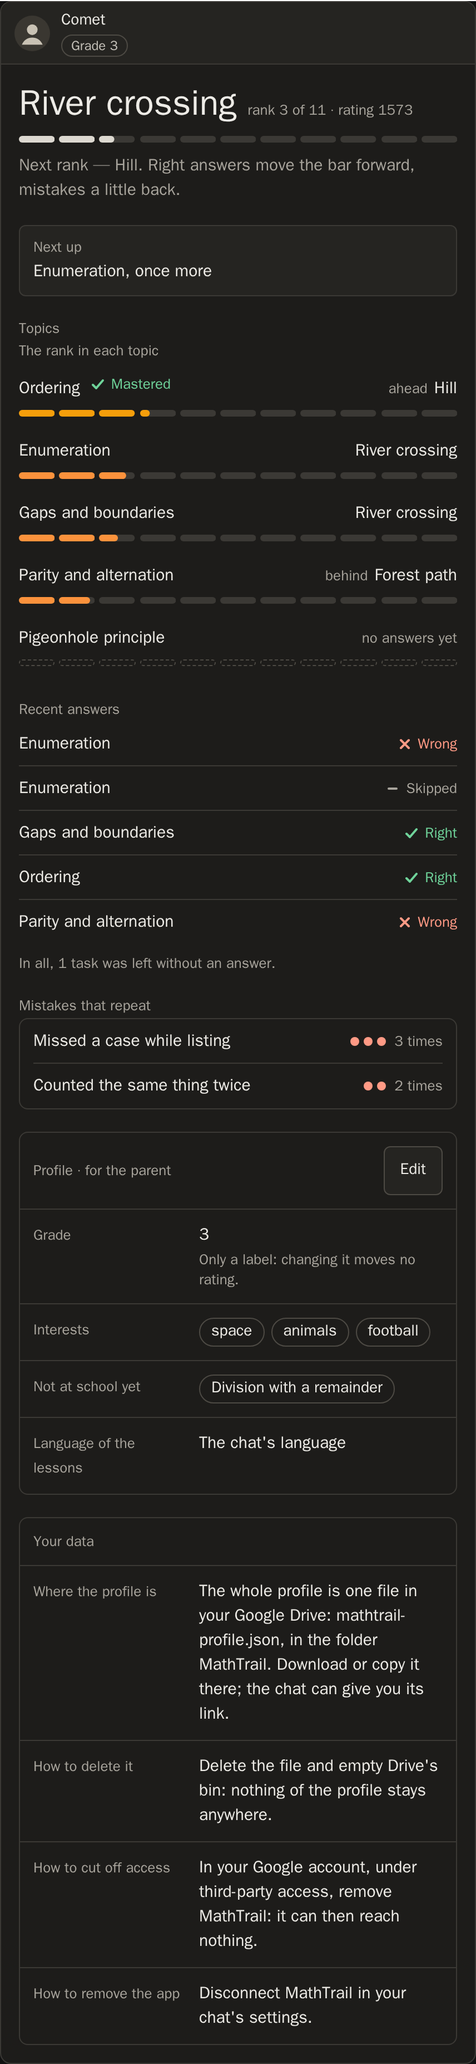
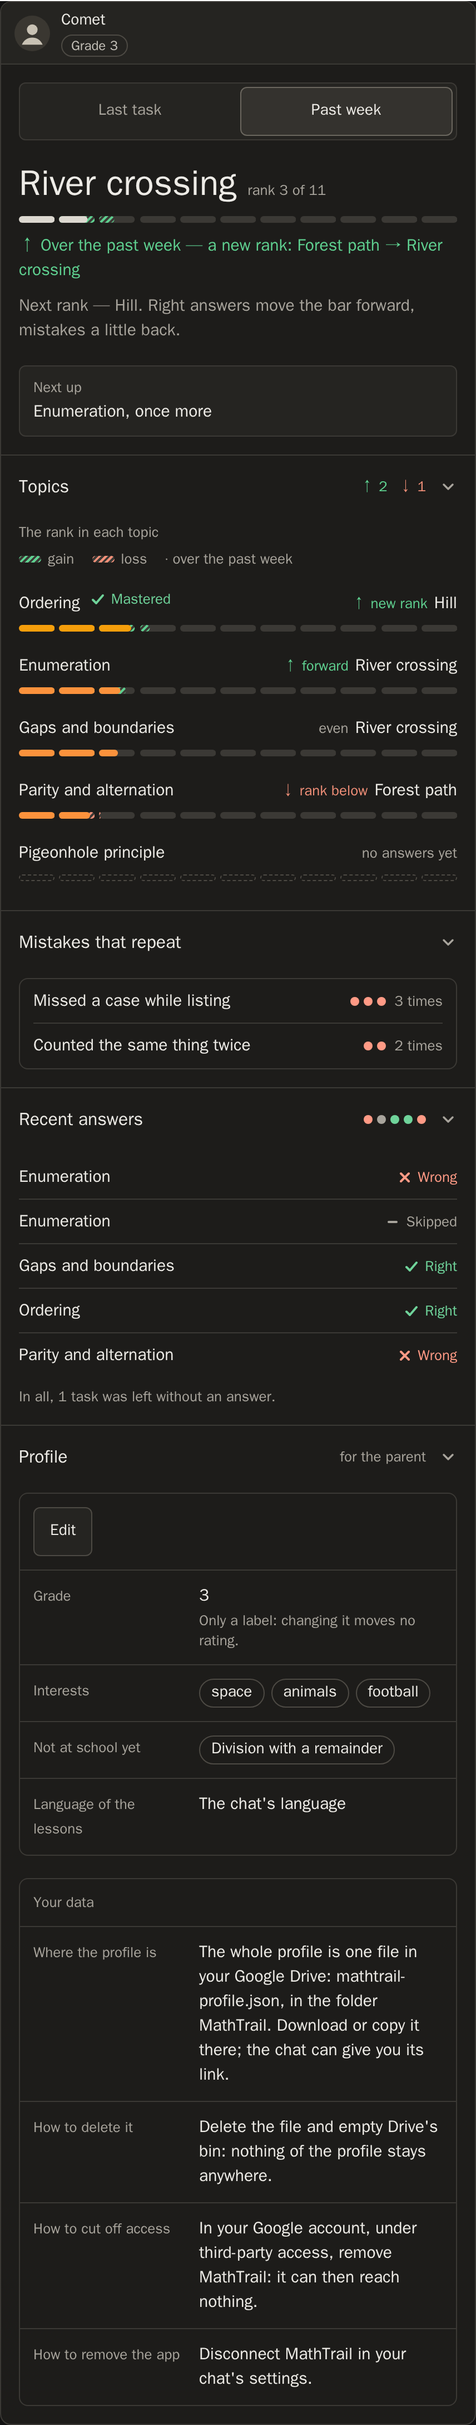
1

diff --git a/web/src/widget/ProgressScreen.test.tsx b/web/src/widget/ProgressScreen.test.tsx
@@ -1,4 +1,8 @@
+import { render } from "preact";
+import { act } from "preact/test-utils";
 import { afterEach, describe, expect, test, vi } from "vitest";
+import { ProgressScreen } from "./ProgressScreen";
+import { readScreen } from "./payload";
 import { type Drawn, drawCard, foldIn, press, takeDown } from "./testing/card";
 import {
 	atTheTop,
@@ -775,5 +779,47 @@ describe("the moves", () => {
 			expect(root.querySelector(".mt-segment-stripes")).toBeNull();
 			takeDown(root);
 		}
+	});
+});
+
+describe("a progress screen nobody outlives", () => {
+	// stillHost is a host that answers nothing: a screen drawn on its own,
+	// over no card, has nobody to call.
+	const stillHost = {
+		callTool: () => Promise.reject(new Error("no host")),
+		sendMessage: () => Promise.reject(new Error("no host")),
+		tellModel: () => Promise.reject(new Error("no host")),
+	};
+
+	test("keeps the while chosen on its switch itself", () => {
+		const root = document.createElement("div");
+		document.body.append(root);
+		const report = readScreen(moving);
+		if (report?.screen !== "progress") {
+			throw new Error(`the progress reads as ${report?.screen}`);
+		}
+		act(() =>
+			render(
+				<ProgressScreen
+					report={report.report}
+					wide={false}
+					host={stillHost}
+					folds={{ open: new Set(), toggle: () => {} }}
+				/>,
+				root,
+			),
+		);
+
+		chosen(root, "last_task");
+
+		expect(periods(root)).toEqual([
+			["last_task", true],
+			["week", false],
+		]);
+		expect(text(root, ".mt-rank-move")).toBe(
+			"↓The last task moved the bar back a little",
+		);
+		act(() => render(null, root));
+		root.remove();
 	});
 });

diff --git a/web/src/widget/ProgressScreen.tsx b/web/src/widget/ProgressScreen.tsx
@@ -82,8 +82,8 @@ export function ProgressCard({
  * over — since the last task, or over the week — as period tells, kept by
  * whoever outlives the screen too: how the rank moved, in stripes on its
  * course and in a line under it, and each topic by its own answers, with how
- * many moved each way by the title of the topics. A card drawn once, which no
- * one presses, needs no period, and shows the while chosen for it first. A
+ * many moved each way by the title of the topics. Where nobody outlives the
+ * screen — a card drawn once — it keeps the while chosen itself. A
  * change the parent saves on its form shows at once, the name and the grade at
  * the top among it, and is handed to onSaved.
  */
@@ -103,11 +103,13 @@ export function ProgressScreen({
 	onSaved?: (details: Details) => void;
 }) {
 	const words = useWords();
+	const own = usePeriod();
+	const choice = period ?? own;
 	const { recommendation } = report;
 	const moves =
 		report.trial === null ? (report.overall?.change ?? undefined) : undefined;
 	const shown =
-		moves === undefined ? undefined : periodShown(period?.chosen, moves);
+		moves === undefined ? undefined : periodShown(choice.chosen, moves);
 	const rows = topicRows(words, report, shown);
 	const [profile, setProfile] = useState(report.profile);
 	const skipped =
@@ -141,7 +143,7 @@ export function ProgressScreen({
 								{ value: "week", label: words.text("progress.period_week") },
 							]}
 							value={shown}
-							onChange={(chosen) => period?.choose(chosen)}
+							onChange={choice.choose}
 						/>
 					)}
 					<Standing report={report} moves={moves} shown={shown} />

diff --git a/web/src/design/progress.tsx b/web/src/design/progress.tsx
@@ -132,10 +132,10 @@ const leastShown = 0.14;
 // drawnStep is how the step at place step is drawn: how much of it is filled,
 // and how far the stripes of a move reach under the fill, from where the
 // course stood at was to where it stands — none when it did not move. A move
-// too small to be seen takes the least part of a step that is, at the edge of
-// the step the course is under way in, so that the drawing never says less
-// than the words beside it: a gain ends at the edge, and a step back starts
-// there.
+// too small to be seen, over all the steps it crosses, takes the least part of
+// a step that is, at the edge of the step the course is under way in, so that
+// the drawing never says less than the words beside it: a gain ends at the
+// edge, and a step back starts there.
 function drawnStep(
 	step: number,
 	filled: number,
@@ -151,7 +151,7 @@ function drawnStep(
 	const within = (at: number) => bounded(at - (step - 1));
 	let fill = within(Math.min(now, then));
 	let stripes = within(Math.max(now, then));
-	if (step === filled + 1) {
+	if (step === filled + 1 && Math.abs(now - then) < leastShown) {
 		const edge = within(now);
 		if (way === "gain") {
 			stripes = Math.max(edge, leastShown);

diff --git a/web/src/design/progress.test.tsx b/web/src/design/progress.test.tsx
@@ -123,6 +123,18 @@ describe("a course that moved", () => {
 		},
 	);
 
+	test("draws a move seen on the steps it crossed as it is, and nothing past its edge", () => {
+		draw(
+			<Segments of={3} filled={1} part={0} was={{ filled: 0, part: 0.8 }} />,
+		);
+
+		expect(striped()).toEqual([
+			["80%", "100%", "mt-stripes mt-stripes-gain"],
+			["0%", null, null],
+			["0%", null, null],
+		]);
+	});
+
 	test("shows a rank just reached, at the start of its step", () => {
 		draw(
 			<Segments of={3} filled={1} part={0} was={{ filled: 0, part: 0.99 }} />,

diff --git a/internal/report/audit_internal_test.go b/internal/report/audit_internal_test.go
@@ -27,7 +27,11 @@ func TestALineIsHeldToTheRulesOfTheLog(t *testing.T) {
 				`"request_id":"r1","logging.googleapis.com/trace":"t","user":"u1","instance":"i-1","duration_ms":12}`,
 			nil},
 		{"an event nobody decided on", `{"message":"made_up","anything":"at all"}`,
-			[]breach{{event: "made_up", rule: ruleUnknownEvent}}},
+			[]breach{{event: unknownEvent, rule: ruleUnknownEvent}}},
+		{"an event whose words name a child", `{"message":"hello Masha from 10.1.2.3"}`,
+			[]breach{{event: unknownEvent, rule: ruleUnknownEvent}}},
+		{"a field named otherwise than the service names one", `{"message":"tool_call","Masha":"1"}`,
+			[]breach{{event: "tool_call", field: withheld, rule: ruleUndecided}}},
 		{"a field its event is not decided to carry", `{"message":"tool_call","pseudonym":"Comet"}`,
 			[]breach{{event: "tool_call", field: "pseudonym", rule: ruleUndecided}}},
 		{"an email address in a value", `{"message":"cimd_fetch","host":"alice@school.example"}`,
@@ -49,7 +53,7 @@ func TestALineIsHeldToTheRulesOfTheLog(t *testing.T) {
 				{event: "limit_hit", field: withheld, rule: ruleUndecided},
 			}},
 		{"an event named like one", `{"message":"erin@home.example"}`,
-			[]breach{{event: withheld, field: "message", rule: ruleEmail}, {event: withheld, rule: ruleUnknownEvent}}},
+			[]breach{{event: unknownEvent, field: "message", rule: ruleEmail}, {event: unknownEvent, rule: ruleUnknownEvent}}},
 	} {
 		t.Run(test.name, func(t *testing.T) {
 			t.Parallel()
@@ -86,22 +90,25 @@ func TestTheFieldsOfEveryLineAreDecidedForEveryEvent(t *testing.T) {
 	}
 }
 
-// No breach the report writes repeats an email address, whatever a line held
-// and wherever: a name shaped like one is withheld.
-func TestABreachNeverRepeatsAnEmailAddress(t *testing.T) {
+// No breach the report writes repeats what a line held, whatever it held and
+// wherever: its event is one the service is decided to write or says it is
+// not, and its field is named as the service names a field or withheld.
+func TestABreachNeverRepeatsWhatALineHeld(t *testing.T) {
 	t.Parallel()
 
-	words := gen.OneConstOf("tool_call", "limit_hit", "made_up", "user", "query", "pseudonym",
-		"alice@school.example", "bob%40home.example", "carol@work.example", "plain")
+	words := gen.OneConstOf("tool_call", "limit_hit", "made_up", "user", "query", "pseudonym", "hello Masha",
+		"Masha", "10.1.2.3", "alice@school.example", "bob%40home.example", "carol@work.example", "plain")
 	properties := gopter.NewProperties(nil)
-	properties.Property("every event and field of a breach is free of an email address", prop.ForAll(
+	properties.Property("every event and field of a breach is the service's own or stands in for one", prop.ForAll(
 		func(event string, keys, values []string) bool {
 			fields := map[string]any{"message": event}
 			for i, key := range keys {
 				fields[key] = values[i%len(values)]
 			}
 			for _, broken := range audit(fields) {
-				if EmailIn(broken.event) != "" || EmailIn(broken.field) != "" {
+				if (!Known(broken.event) && broken.event != unknownEvent) ||
+					(broken.field != "" && broken.field != withheld && !fieldName.MatchString(broken.field)) ||
+					EmailIn(broken.event) != "" || EmailIn(broken.field) != "" {
 					return false
 				}
 			}

diff --git a/internal/report/audit.go b/internal/report/audit.go
@@ -2,6 +2,7 @@ package report
 
 import (
 	"cmp"
+	"regexp"
 	"slices"
 )
 
@@ -12,9 +13,19 @@ const (
 	ruleEmail        = "text shaped like an email address"
 )
 
-// withheld stands in a breach for an event or a field whose own name is
-// shaped like an email address: the report repeats no such text.
-const withheld = "(withheld)"
+// What a breach says in place of a name it must not repeat: the words of an
+// event nobody decided on, which may be anything at all, a child's name or an
+// address among them, and a field named otherwise than a field of the service
+// is.
+const (
+	unknownEvent = "(an event not in the table)"
+	withheld     = "(withheld)"
+)
+
+// fieldName is how the service names a field, and a log collector its own
+// keys: a lowercase letter first, then letters, digits, dots, slashes, dashes
+// and underscores.
+var fieldName = regexp.MustCompile(`^[a-z][a-zA-Z0-9_./-]{0,63}$`)
 
 // breach is one way a line breaks the rules of the log: the event, the field
 // and the rule. It names what the line held never.
@@ -26,9 +37,10 @@ type breach struct{ event, field, rule string }
 // any of its values or names.
 func audit(fields map[string]any) []breach {
 	event, _ := fields["message"].(string)
-	label := named(event)
+	label := event
 	var found []breach
 	if !Known(event) {
+		label = unknownEvent
 		found = append(found, breach{event: label, rule: ruleUnknownEvent})
 	}
 	for field, value := range fields {
@@ -48,10 +60,10 @@ func compareBreaches(a, b breach) int {
 	return cmp.Or(cmp.Compare(a.event, b.event), cmp.Compare(a.field, b.field), cmp.Compare(a.rule, b.rule))
 }
 
-// named is a name as a breach gives it: as it is, unless it is itself shaped
-// like an email address.
+// named is a field's name as a breach gives it: as it is when it is named the
+// way the service names a field, and withheld otherwise.
 func named(name string) string {
-	if EmailIn(name) != "" {
+	if !fieldName.MatchString(name) {
 		return withheld
 	}
 	return name

diff --git a/internal/report/write.go b/internal/report/write.go
@@ -44,7 +44,8 @@ func write(out io.Writer, c *counts) error {
 		{"The busiest minute", c.busyAbout(), c.busyTable()},
 		{"The rules of the log", "Every line of the service's is held to an event the service is decided to " +
 			"write, to the fields decided for that event, and to carrying nothing shaped like an email address. A " +
-			"line that breaks one is named by its event and its field, never by what it held.", c.breachesTable()},
+			"line that breaks one is named by its event and its field, never by what it held: an event the table " +
+			"does not name is not named, since its words may be anything.", c.breachesTable()},
 	} {
 		fmt.Fprintf(&report, "\n## %s\n\n%s\n\n", section.title, section.about)
 		section.table.writeTo(&report)
@@ -299,14 +300,18 @@ func (t *table) writeTo(b *strings.Builder) {
 }
 
 // writeRow writes one row of a table. A cell with nothing in it says so, and
-// a bar in a cell stays in the cell.
+// a bar or a line break in a cell stays in the cell.
 func writeRow(b *strings.Builder, cells []string) {
 	written := make([]string, len(cells))
 	for i, cell := range cells {
-		written[i] = cmp.Or(strings.ReplaceAll(cell, "|", `\|`), "(none)")
+		written[i] = cmp.Or(inACell.Replace(cell), "(none)")
 	}
 	b.WriteString("| " + strings.Join(written, " | ") + " |\n")
 }
+
+// inACell keeps a text inside the cell of a table: a bar is written as a bar,
+// not a border, and a line break as a space, not the end of the row.
+var inACell = strings.NewReplacer("|", `\|`, "\r\n", " ", "\n", " ", "\r", " ")
 
 // number is a whole number as the report writes it.
 func number[T int | int64](n T) string { return strconv.FormatInt(int64(n), 10) }

diff --git a/internal/report/report_internal_test.go b/internal/report/report_internal_test.go
@@ -353,3 +353,16 @@ func TestLinesWithNoTimeAreSaidToHaveNone(t *testing.T) {
 		t.Errorf("the report begins %q, want it to say the lines have no time", out.String()[:min(out.Len(), 120)])
 	}
 }
+
+// A text in a cell of a table stays in its cell and its row: a bar is written
+// as a bar and a line break as a space, so neither starts a cell or a row of
+// its own, and a cell with nothing in it says so.
+func TestATextStaysInItsCell(t *testing.T) {
+	t.Parallel()
+
+	var b strings.Builder
+	writeRow(&b, []string{"a|b", "first\nsecond\r\nthird\rfourth", ""})
+	if got, want := b.String(), "| a\\|b | first second third fourth | (none) |\n"; got != want {
+		t.Errorf("writeRow() = %q, want %q", got, want)
+	}
+}

diff --git a/docs/decisions.md b/docs/decisions.md
@@ -500,7 +500,7 @@ Measured on the development machine in a container of one vCPU and 1 GiB (`docs/
 
 **R141. The log is audited by a whole lesson through the service as it is built, and added up by a package that reads the service's own lines.** *(Since T64.2 the table of fields is the report's, names every event, and holds a deployment's log as well as the lesson; the test keeps the list of the events a lesson leaves — R169.)* The audit is a test rather than a document. `internal/app` runs one family's whole way through the container `NewContainer` builds: the host registering, the parent through the consent screen and a stand-in for Google, the child's profile in a stand-in for Drive, a race asked for, asked for again while its request is open, refused once and accepted, answered wrongly and told again, the progress, the day's limit, a renewal and the end of the access — with a stranger's token and a client on a private network on the way. Every line it leaves is held to two rules. It carries nothing sent or issued on the way — the pseudonym, the interests and the notes, the words of the task and of its program, a letter standing as a value of its own, the name the host gives itself, every token, code, cookie, state and verifier, Google's subject and the service's secrets, the id of the file in Drive, the addresses the requests came from — and no email address at all, each looked for in every value as it is written and as it reads with its percent-encoding undone. And it is a line of an event the lesson is known to leave, carrying only the fields decided for that event: a table in the test, SPEC 12.2 made executable, in which every event has to appear in the lesson, so that the table lists nothing the lesson does not reach. The lines together, written out as JSON, are then held to adding up in the report to what the lesson was. The container reaches Google's sign-in and Drive through one seam, the pair of addresses `NewContainer` sets to Google's own and the test replaces through the package's export file. `internal/report` adds lines up: the tasks asked for, handed in, refused and out of attempts, the checks that refused them, and the attempts and the seconds an accepted task took, by instructions version and chat host; the limits reached; and the tool calls by host, with the median and the 95th percentile of their time, every percentile by the nearest rank. A task is counted for the host of its call, read off the call's `tool_call` line: the one with the span the task's line names, since a span is the service's own, or, where the service names no span because it knows no project, the one of the same request, whose id a client may have chosen; a task whose call's line was not read is counted for no host, as `(call not read)`, never for the `unknown` the service writes for a client that gave no name. Cloud Logging keeps every number of a line as a double, so a whole number reads whether it is written 2 or 2.0, and a line of the service's that still does not read is counted and said, never left out as another's. `cmd/report` prints the report from standard input. `just report` feeds it the deployed service's lines — read whole into a file from Cloud Logging with `gcloud logging read`, in the project `just _project` finds in the Terraform configuration, and restored from their entries with `jq` — and a log of a local run is fed to it as it stands. — *Why:* the leak an audit exists for is the one nobody thought of, and a list of what to look for finds only what is on it; a field held to a table fails the test the day somebody adds it without deciding on it, before any value it carries can. The first run found what the tests of each package had missed: `task_skipped` wrote the topic of the task on the card as the file held it, so a parent who typed the child's name there would have had it logged. The topic is now held to the catalog, as `answer_recorded`'s already was. A lesson through the real composition sees the lines the parts leave together — the sign-in's, the lesson's and the Drive store's — which no package's own test does, and it is the one place the report can be held to the fields the service really writes rather than to a fixture written by hand; that second reader is why the adding up is a package of its own and not the command's. The numbers of О-16 need no backend: Cloud Logging keeps the lines, and one command reads them. A task's lines do not name the chat host; a field of their own for it is T67.1's `host`, taken from the sign-in rather than from the name a client gives itself. — *Rejected:* log-based metrics, or Log Analytics with BigQuery, for these numbers: a backend and a cost the MVP does not need, which T67.2 builds for the numbers that must outlive the raw lines. The adding up written in `jq` inside the recipe, which no test could hold. A Go client of the Logging API, which would bring Google's libraries into the module for a read `gcloud` already makes and signs. The audit as a document listing every line, which is out of date the day after. Renaming the lines of starting and stopping to one word each: nothing but their tests reads them, and SPEC 12.1 now names their shape instead. — *Consequence:* a new event or field on a line a lesson leaves fails the test until the table and SPEC 12.2 say it. An event the lesson does not reach — a conflict in Drive, a panic — is held by its own package's tests alone, and so is the column of seconds, since the lesson spends none. The report counts a request out of attempts by the product's own ceiling, so a log older than a change to that ceiling would be misread, and a request whose lines straddle a new release is counted under each version its lines carry. `ci-tf-apply` reads its project through `_project` too. The first read of the deployed log showed `caller` on every line, which SPEC 12.1 now names; holding the deployed lines' fields to the table, and `just report` itself against the deployed log, are the author's to run. — *Where it lives:* `internal/app/log_test.go`, `family_test.go`, `racetask_test.go`, `export_test.go`, `container.go`; `internal/transport/mcp/nexttask.go`, `submittask.go`, `labels.go`; `internal/report`, `cmd/report`; `justfile` (`report`, `_project`); SPEC 12.1–12.4 and 12.6 (T60).
 
-**R169. The report holds every line of a deployment's log to the rules of the log, and adds up a tool's time without Drive, the traces and the busiest minute; what the platform counted is read beside it.** *(T64.2, 2026-10-04.)* The table of the fields each event may carry moved out of the lesson's test into `internal/report` and names every event of SPEC 12.2 — the process starting and stopping, the telemetry, the panics, and Drive's conflicts, stale reads and recoveries beside the lesson's. The lesson's test keeps only the list of the events a lesson leaves and holds their lines to the report's table, and the report holds every line it reads to the same rules: an event the service is decided to write, the fields decided for it, and nothing shaped like an email address in any value or name. A line that breaks one is named by its event, its field and the rule, never by what it held, and a name itself shaped like an address is withheld. `just report` therefore reads every line of the window rather than the five events it used to, leaving out only the platform's own record of the requests, and puts the trace back beside the span — a trace the entry says nothing of read as dropped, since Cloud Logging leaves a false out — and the instance beside the line from the entry's labels, streaming the entries out of their file one at a time. A tool's time without Drive is its time less that of the calls to Drive of its request, tied by the request's id and the trace together, since either alone can be another request's as well, and never less than nothing. The traces are counted from each request's own line and the failed deliveries from theirs, joined by the request's id — an id requests of both kinds came with tells nothing — and a failure whose words say the deadline was exceeded is counted as late; the share the telemetry was built to keep is the newest build's in the window. The busiest minute is a minute by the clock, the one a call or a request arrived in: its line is written as it ends, less how long it took. `just usage` reads Cloud Monitoring's `container/cpu/allocation_time`, `container/memory/allocation_time`, `request_count`, `container/billable_instance_time` and `container/instance_count` for the service, a minute at a time, with `curl` and the token `gcloud` prints, and sets the window against the free tier of a month. — *Why:* T64 checks the real log for personal data, and a check by eye finds what the eye knows to look for; the rule the lesson's test enforces is already decided, and made whole it holds both. The five events the recipe read had left out the answers the report has weighed since T72.1, and the lines the new numbers need. The time without Drive is the number PRODUCT 6 sets its second against; the traces are how SPEC 12.5's share and its 200 ms are revisited against real load; the busiest minute is what the paces of SPEC 10.2 are counted over. The free tier is counted in vCPU-seconds and GiB-seconds, which the two allocation metrics give as they are, where the instance time would have to be multiplied by a size the deployment can change. — *Consequence:* an event added without its fields in the table fails the lesson's test when the lesson reaches it, and shows in the report of a deployed log when it does not. Reading every line makes a long window slower to read. The instance is the reader's: no event is decided to carry it, so the lesson's test still catches the service writing one, and the report passes it as the field its reader added. An account's pace counts every message it sends, but a line names the account on a tool call alone, so the busiest minute of an account is of its tool calls, with the requests the endpoint was sent for each beside it. Running both recipes against the deployment is the author's: it reads production. — *Rejected:* a second table for the deployed log, which would drift from the lesson's; log-based metrics or a dashboard for these numbers, a backend and a cost (R141); a Go client of the Monitoring API, which would bring Google's libraries into the module for a read `curl` and `gcloud`'s token make. — *Where it lives:* `internal/report` (`events.go`, `audit.go`, `traffic.go`, `report.go`, `tally.go`, `write.go`), `internal/app/log_test.go`, `justfile` (`report`, `usage`), SPEC 12.4 and 12.5.
+**R169. The report holds every line of a deployment's log to the rules of the log, and adds up a tool's time without Drive, the traces and the busiest minute; what the platform counted is read beside it.** *(T64.2, 2026-10-04.)* The table of the fields each event may carry moved out of the lesson's test into `internal/report` and names every event of SPEC 12.2 — the process starting and stopping, the telemetry, the panics, and Drive's conflicts, stale reads and recoveries beside the lesson's. The lesson's test keeps only the list of the events a lesson leaves and holds their lines to the report's table, and the report holds every line it reads to the same rules: an event the service is decided to write, the fields decided for it, and nothing shaped like an email address in any value or name. A line that breaks one is named by its event, its field and the rule, never by what it held: an event the table does not name is not named, since its words may be anything, and a field named otherwise than the service names its fields is withheld; a line break in a cell is written as a space. `just report` therefore reads every line of the window rather than the five events it used to — what the service wrote on its standard output and error, and none of the platform's own records — and puts the trace back beside the span — a trace the entry says nothing of read as dropped, since Cloud Logging leaves a false out — and the instance beside the line from the entry's labels, streaming the entries out of their file one at a time. A tool's time without Drive is its time less that of the calls to Drive of its request, tied by the request's id and the trace together, since either alone can be another request's as well, and never less than nothing. The traces are counted from each request's own line and the failed deliveries from theirs, joined by the request's id — an id requests of both kinds came with tells nothing — and a failure whose words say the deadline was exceeded is counted as late; the share the telemetry was built to keep is the newest build's in the window. The busiest minute is a minute by the clock, the one a call or a request arrived in: its line is written as it ends, less how long it took. `just usage` reads Cloud Monitoring's `container/cpu/allocation_time`, `container/memory/allocation_time`, `request_count`, `container/billable_instance_time` and, of the instances that served, `container/instance_count` on average over each minute, for the service, a minute at a time, with `curl` and the token `gcloud` prints, and sets the window against the free tier of a month. — *Why:* T64 checks the real log for personal data, and a check by eye finds what the eye knows to look for; the rule the lesson's test enforces is already decided, and made whole it holds both. The five events the recipe read had left out the answers the report has weighed since T72.1, and the lines the new numbers need. The time without Drive is the number PRODUCT 6 sets its second against; the traces are how SPEC 12.5's share and its 200 ms are revisited against real load; the busiest minute is what the paces of SPEC 10.2 are counted over. The free tier is counted in vCPU-seconds and GiB-seconds, which the two allocation metrics give as they are, where the instance time would have to be multiplied by a size the deployment can change. — *Consequence:* an event added without its fields in the table fails the lesson's test when the lesson reaches it, and shows in the report of a deployed log when it does not. Reading every line makes a long window slower to read. The instance is the reader's: no event is decided to carry it, so the lesson's test still catches the service writing one, and the report passes it as the field its reader added. An account's pace counts every message it sends, but a line names the account on a tool call alone, so the busiest minute of an account is of its tool calls, with the requests the endpoint was sent for each beside it. Running both recipes against the deployment is the author's: it reads production. — *Rejected:* a second table for the deployed log, which would drift from the lesson's; log-based metrics or a dashboard for these numbers, a backend and a cost (R141); a Go client of the Monitoring API, which would bring Google's libraries into the module for a read `curl` and `gcloud`'s token make. — *Where it lives:* `internal/report` (`events.go`, `audit.go`, `traffic.go`, `report.go`, `tally.go`, `write.go`), `internal/app/log_test.go`, `justfile` (`report`, `usage`), SPEC 12.4 and 12.5.
 
 **R74. The way out is one budget, in fixed shares.** `MATHTRAIL_SHUTDOWN_TIMEOUT`, nine seconds by default, is the whole time from a stop being asked for to the process ending: the server drains the requests in flight for three quarters of it, and the container is closed in the quarter left — a start that fails halfway is closed in the same quarter. — *Why:* the platform stops the process ten seconds after asking it to. Before this the drain and the close took the whole budget each, twenty seconds between them, and the part cut off was the telemetry's last delivery. Fixed shares keep each clock where it is used: the server measures its drain from the moment it sees the stop, the close is measured from the moment the server has returned, and the two add up to the budget with nothing to keep in step. The default stops a second short of the platform's ten, for the moment the signal takes to arrive and the lines written after the close. — *Consequence:* a close that needed more than its quarter does not get the time a quick drain left unused. The close is mostly the telemetry's final delivery, which takes well under a second against a collector that answers. A way out shorter than a second is refused at start, since a quarter of it would be no time to deliver anything in. A drain cut short by a request still running is a warning, not a failure: the stop was asked for and happened, and the process ends as it would have — an exit code of failure would dress every scale-down with a slow request up as a crash. — *Rejected:* one deadline taken when the stop arrives and shared by both, the drain taking up to its share and the close whatever is left. The process has to learn the moment of the stop outside the server, which costs either a wait on the group's context ahead of the group itself — a hang the day a member returns without that context ending — or a second clock kept in step with the server's; and it pulls the close out of a deferred call, where a panic or an early return would skip it. — *Where it lives:* `internal/config/config.go` (`DrainTimeout`, `CloseTimeout`), `internal/app/server.go`, `internal/app/container.go`, `cmd/server/main.go`, SPEC section 11 (T39a.6).
 

diff --git a/SPEC.md b/SPEC.md
@@ -1675,9 +1675,9 @@ This pass added four that matter operationally: `solver_run.steps`, which is wha
 
 `just report` adds the lines up into these numbers — the tasks asked for, handed in, refused and out of attempts, the checks that refused them, the attempts and the seconds an accepted task took, the limits reached and how the tools answered — by the version of the instructions and by the chat host. It reads every line the deployed service wrote to Cloud Logging, as far back as the log keeps them, with the instance that wrote each beside it, and a log of a local run the same way. A line about a task does not name the host; the report takes it from the `tool_call` line of the same call — the one whose span the line names, or, on a line that names none, the one of the same request.
 
-Three more numbers are the ones PRODUCT 6 and 12.5 are measured against. **A tool's time without Drive** is its time less that of the calls to Drive made in its request, tied to it by the request's id and its trace together; the median and the 95th percentile stand beside those of the whole call, against the second PRODUCT 6 allows a tool, Drive aside. **The traces** are the share of the requests whose trace was kept, beside the share the newest build of the telemetry was built to keep, and the deliveries that failed, by whether their request's trace was kept — a kept trace lost its spans — and by whether they ran out of the 200 ms they are given. **The busiest minute** is the most a minute by the clock held of what a pace counts over a minute, each call and request in the minute it arrived: an account's tool calls, the one message of an account a line names it on, and an instance's requests at the MCP endpoint and elsewhere apart, beside all the instances' together and the requests the endpoint was sent for each tool call. What the platform counted of the same window — the processor and memory time the free tier is counted in, the requests, the instance time billed and the most instances at once — is read from Cloud Monitoring by `just usage`, beside the free tier of a month.
+Three more numbers are the ones PRODUCT 6 and 12.5 are measured against. **A tool's time without Drive** is its time less that of the calls to Drive made in its request, tied to it by the request's id and its trace together; the median and the 95th percentile stand beside those of the whole call, against the second PRODUCT 6 allows a tool, Drive aside. **The traces** are the share of the requests whose trace was kept, beside the share the newest build of the telemetry was built to keep, and the deliveries that failed, by whether their request's trace was kept — a kept trace lost its spans — and by whether they ran out of the 200 ms they are given. **The busiest minute** is the most a minute by the clock held of what a pace counts over a minute, each call and request in the minute it arrived: an account's tool calls, the one message of an account a line names it on, and an instance's requests at the MCP endpoint and elsewhere apart, beside all the instances' together and the requests the endpoint was sent for each tool call. What the platform counted of the same window — the processor and memory time the free tier is counted in, the requests, the instance time billed and the most instances that served in a minute, on average over it — is read from Cloud Monitoring by `just usage`, beside the free tier of a month.
 
-The report also holds every line to the rules of 12.3: an event of the table of 12.2, only the fields decided for that event, and nothing shaped like an email address in any value or name. A line that breaks one is named by its event, its field and the rule, never by what it held, and a name itself shaped like an email address is withheld. The fields of each event are one table, kept with the report, which the audit of a whole lesson below holds the lesson's lines to as well.
+The report also holds every line to the rules of 12.3: an event of the table of 12.2, only the fields decided for that event, and nothing shaped like an email address in any value or name. A line that breaks one is named by its event, its field and the rule, never by what it held: an event the table does not name is not named, since its words may be anything, and a field named otherwise than the service names its fields is withheld. The fields of each event are one table, kept with the report, which the audit of a whole lesson below holds the lesson's lines to as well.
 
 The report also weighs answers against their chance (R153). It takes the answers to tasks the rule chose, after the trial series and without the hint, and gives them twice, each cell with the number of children its answers came from: by the chance their tasks were handed out at — how many, the chance promised on average and the share that came out right — and by which of the child's answers each was — the mean of right, as 1, less the chance, with its standard error counted by child, since one child's answers lean together. The mean stands above zero when the estimate falls behind a learning child. A cell of fewer than 30 answers says too few rather than a number, and the error of one child's answers says one child. The answers left out are counted by why, and the tasks left unanswered beside them: those and the answers given with the hint are mostly ones that looked too hard, so the share right reads a little high by what they take away. How precisely the chat's model hits the difficulty it is asked for cannot be read from either: each task is answered once, and a model that misses by 0.25 or 0.5 logits flattens the curve of the chance promised against the share right by almost nothing.
 

diff --git a/internal/report/testdata/report.md b/internal/report/testdata/report.md
@@ -101,12 +101,12 @@ The most a minute by the clock held, the minute a pace is counted over. An accou
 
 ## The rules of the log
 
-Every line of the service's is held to an event the service is decided to write, to the fields decided for that event, and to carrying nothing shaped like an email address. A line that breaks one is named by its event and its field, never by what it held.
+Every line of the service's is held to an event the service is decided to write, to the fields decided for that event, and to carrying nothing shaped like an email address. A line that breaks one is named by its event and its field, never by what it held: an event the table does not name is not named, since its words may be anything.
 
 | Event | Field | Rule | Lines |
 |---|---|---|---:|
+| (an event not in the table) | (none) | an event the service is not decided to write | 1 |
 | cimd_fetch | host | text shaped like an email address | 1 |
 | limit_hit | (withheld) | a field its event is not decided to carry | 1 |
 | limit_hit | (withheld) | text shaped like an email address | 1 |
-| made_up_event | (none) | an event the service is not decided to write | 1 |
 | tool_call | pseudonym | a field its event is not decided to carry | 1 |
